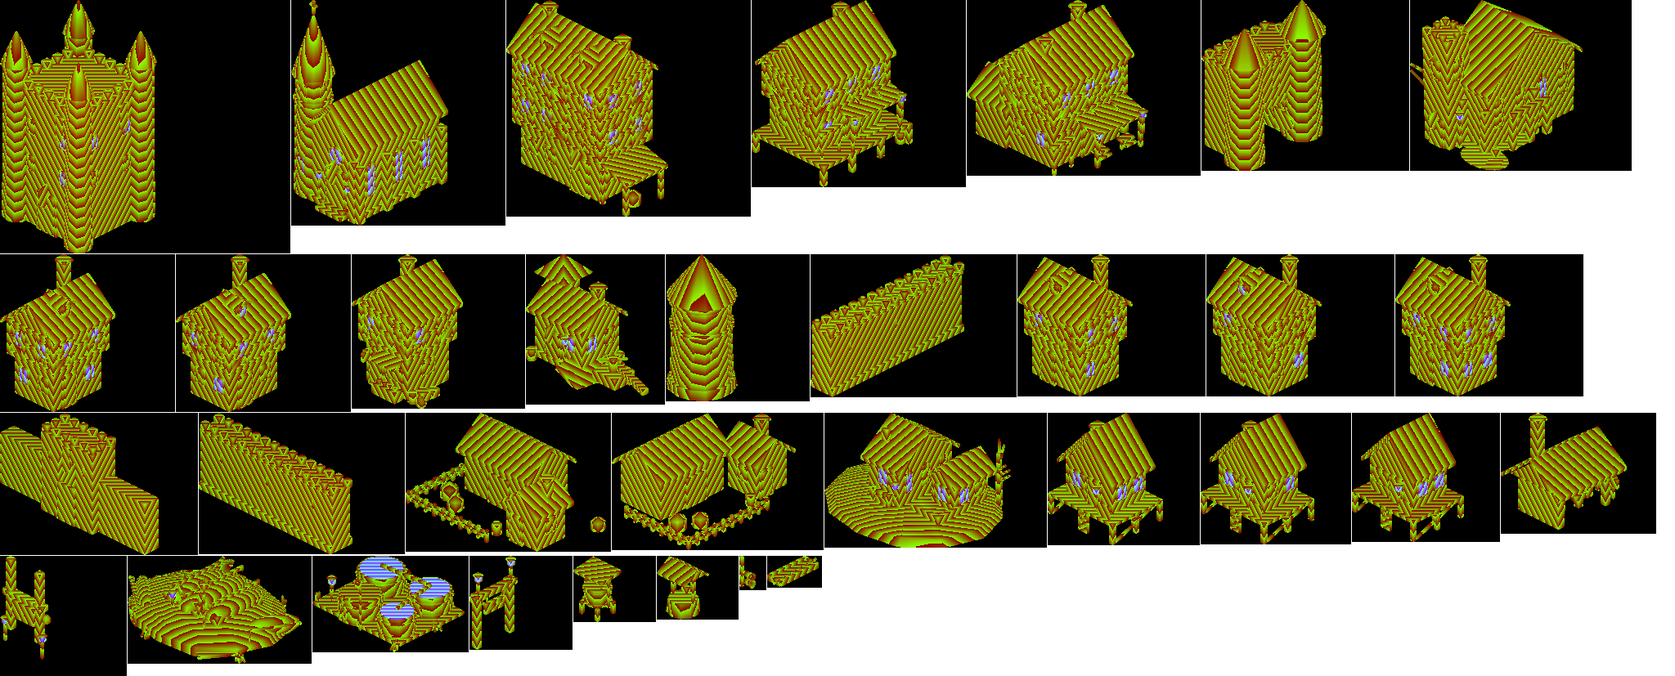
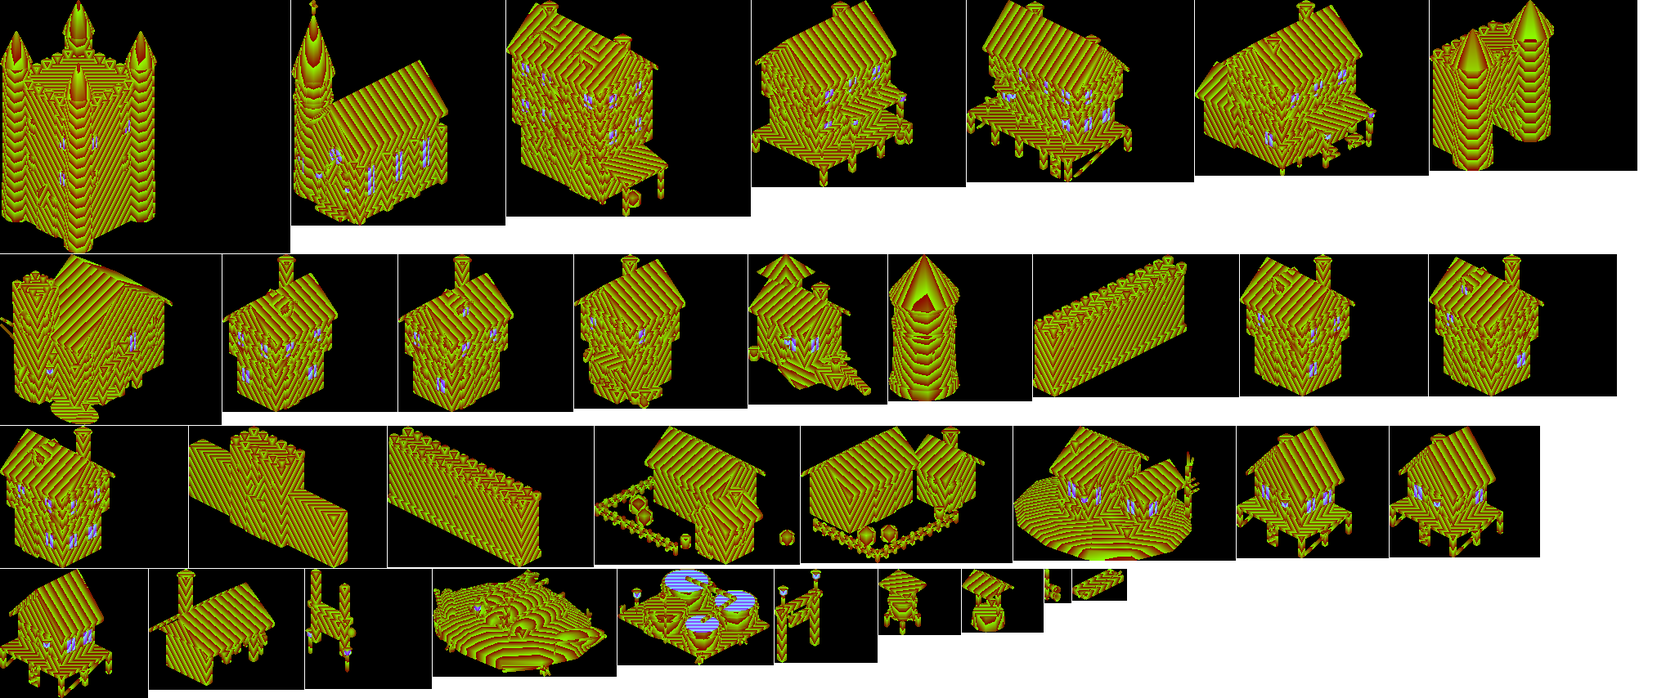
Saltmere's inn, the Stilt House; no two companions share a name (save v24)
The owner: "Saltmere needs an inn for party mgt. Also ensure companions dont have the same name. I have 2 Tobins."

The inn (world doc v1.28 first, GDD v1.37, region-towns-proposal):
- A new stilt lodging-house (actor-lab buildkit `stiltinn`, town.json fens_stiltinn_1, re-baked town-fens; no other
  footprint changed): long on its piles, two storeys, a gallery with a bench, lanterns, a candle sign, a ladder.
- outdoor.js buildWaystation: a third service, 'inn' (The Stilt House) at the head of the square; the chapel moves 6
  tiles west on its island so the three stand 8+ apart with every door in the square's frame. At first the inn
  stood behind the chapel and under the compass buttons; the move brings it clear (docs/img/saltmere-inn.jpg).
- The bar shows Tavern, Inn, Temple; the inn's menu (rest, party & bench, expeditions) works as in any town.

Names (GDD §6.2 v1.37):
- party.js freeName / distinctNames: the tavern offers each sellsword under a name nobody in the company (or earlier on
  the day's list) has: the next free name in their class's list, then any class's, then "the Younger". One already
  hired keeps theirs. heroes.js roster() goes through it, so the hire is what was shown.
- save v24 (persist/save.js namesFor, party.js dedupeNames): an older company with a name twice has the later one
  renamed the same way (the party first, then the bench); the hero keeps theirs. So the second Tobin gets a new name.
[…]

diff --git a/src/sim/envfoot.js b/src/sim/envfoot.js
@@ -1,4 +1,4 @@
 // envfoot.js — GENERATED by tools/actor-lab/bake-env.cjs. Do not edit.
 // Ground footprint of each baked environment sprite, in tiles relative to its
 // origin: [x0, y0, x1, y1]. Used for collision and placement.
-export const ENV_FOOT = {"pine_1":[-4.13,-4.18,4.39,4.34],"pine_2":[-4.81,-4.8,5.12,5],"pine_3":[-4.98,-5.01,5,4.96],"pine_4":[-5.13,-5.38,5.48,5.19],"pine_5":[-4.8,-4.87,4.86,4.58],"pine_6":[-4.76,-4.68,4.81,4.84],"oak_1":[-6.75,-7.14,6.33,6.1],"oak_2":[-5.79,-6.35,5.76,6.08],"oak_3":[-6.48,-6.65,6.29,5.96],"oak_4":[-6.59,-6.8,6.43,6.89],"autumn_1":[-6.59,-6.88,6.22,6.33],"autumn_2":[-5.57,-5.73,5.51,5.75],"autumn_3":[-5.1,-5.47,5.08,5.06],"birch_1":[-4.93,-3.24,2.73,4.21],"birch_2":[-4.81,-4.29,4.6,3.62],"birch_3":[-5.17,-3.57,4.88,4.81],"dead_1":[-2.24,-2.81,2.66,2.62],"dead_2":[-2.56,-1.87,2.98,3.05],"grove_1":[-9.86,-8.38,6.88,6.28],"grove_2":[-10.59,-7.13,5.79,8.69],"grove_3":[-10.94,-8,11.15,9.36],"grove_4":[-10.79,-8.1,8.04,10.5],"grove_5":[-9.42,-11.89,11.01,10.13],"grove_6":[-7.78,-9.39,8.91,8.76],"bridge_0":[-3.6,-9.7,3.6,9.7],"bridge_90":[-9.7,-3.6,9.7,3.6],"rock_A":[-2.18,-2.03,2.19,2.41],"rock_B":[-2.03,-2.12,2.06,1.97],"rock_C":[-3.06,-3.35,3.32,3.55],"rock_D":[-2.7,-3.56,2.22,2.22],"rock_E":[-3.72,-3.84,4.19,6.22],"mountain_A_grass_trees":[-10.67,-10.54,11.17,11.99],"mountain_B_grass_trees":[-12.25,-12.31,11.91,11.79],"mountain_C_grass_trees":[-11.39,-10.97,11.31,12.47],"mountain_A":[-10,-10.64,10.64,10.58],"mountain_B":[-11.58,-11.7,12.29,12.11],"mountain_massif_A":[-37.07,-33.75,43.44,35.17],"mountain_massif_B":[-30.31,-33,30.17,32.15],"mountain_massif_C":[-24.46,-24.21,25.04,24.61],"ruin":[-9.37,-9.66,9.14,6.89],"mine_0":[-13.86,-13.76,9.84,11.1],"lumbermill_90":[-10.3,-7.1,9.4,8.9],"barrel":[-0.89,-0.94,0.89,0.94],"crate_A_big":[-1.12,-1.12,1.12,1.19],"crate_A_small":[-0.72,-0.72,0.72,0.79],"crate_B_big":[-1.12,-1.12,1.12,1.19],"crate_long_A":[-2.02,-1.02,2.02,1.09],"sack":[-0.62,-0.49,1.25,1.36],"wheelbarrow":[-1.32,-2.69,1.32,3.23],"weaponrack":[-1.2,-0.19,2.1,0.81],"bucket_water":[-0.65,-0.65,0.65,0.65],"resource_lumber":[-3.33,-1.78,3.33,2.15],"resource_stone":[-1.7,-1.97,1.75,0.83],"flag_red":[-0.16,-0.12,0.16,1.84],"stump":[-1.06,-1.15,1.12,1.1],"fence_0":[-0.25,-6.05,0.3,6.05],"fence_90":[-6.05,-0.3,6.05,0.25],"drywall_0":[-0.83,-5.8,0.8,5.78],"drywall_90":[-5.8,-0.8,5.78,0.83],"stairsup_0":[-2.6,-4.15,2.6,3.1],"stairsup_90":[-4.15,-2.6,3.1,2.6],"stairsdown_0":[-3.38,-3.8,3.38,3.01],"watermill_0":[-6.12,-4.3,5.3,5.38],"chapelruin_0":[-6.67,-5.7,7.63,8.85],"milestone_0":[-1.68,-1.61,1.66,3.1],"warren_0":[-19.82,-24.03,13.71,8.3],"wagon_0":[-4.9,-1.55,4.09,3.62],"ug_bush":[-2.03,-2.14,2.18,2.18],"ug_fern":[-3.54,-3.27,3.7,3.52],"ug_plant":[-1.95,-2.32,2.09,2.06],"ug_flowers_1":[-0.86,-1.12,1.22,1.11],"ug_flowers_2":[-1.3,-0.89,1.19,1.02],"ug_grass_1":[-1.48,-1.64,1.6,1.55],"ug_grass_2":[-0.81,-0.96,0.98,1.03],"ug_clover":[-1,-0.94,0.7,0.73],"ug_mushroom":[-1.62,-0.82,1.79,1.94],"rock_F":[-2.07,-1.38,1.8,2.21],"rock_G":[-2.06,-1.39,1.6,1.58],"rock_H":[-2.19,-1.07,1.91,3.1],"wheat_1":[-0.69,-0.8,0.76,0.68],"wheat_2":[-0.71,-0.84,0.73,0.93],"wheat_3":[-0.9,-0.69,0.81,0.84],"cow_1":[-2.23,-1.26,3.32,1.47],"cow_2":[-1.59,-3.37,2.14,2.06],"cow_3":[-1.78,-1.91,2.44,2.81],"sheep_1":[-2.67,-1.44,1.86,1.44],"sheep_2":[-1.46,-2.63,1.49,1.85],"hens_1":[-1.36,-1.34,1.27,2.35],"pumpkins_1":[-1.77,-1.16,1.14,1.73],"hay_1":[-2.02,-1,2.02,1.25],"hay_2":[-1.48,-1.41,1.48,1.5],"planter_1":[-1.3,-0.4,1.3,0.4],"alder_1":[-4.75,-5.67,5.55,5.23],"alder_2":[-5.24,-5.4,5.37,5.39],"alder_3":[-5.48,-4.83,5.77,4.74],"willow_1":[-7.04,-6.27,6.42,6.51],"willow_2":[-7.57,-7.83,6.93,7.54],"carr_1":[-7.28,-6.88,6.22,6.2],"carr_2":[-6.81,-6.88,6.65,6.31],"vale_tavern_1":[-8.45,-6.72,7.25,6.3],"vale_inn_1":[-7.1,-4.4,10.48,5.1],"vale_shop_1":[-4.2,-4.2,5.72,5.07],"vale_temple_1":[-6.81,-6.95,4.5,7.84],"vale_well_1":[-2.1,-1.8,2.1,1.8],"vale_house_1":[-4.7,-4,4.7,4],"vale_house_2":[-4.7,-4,4.7,4],"vale_house_3":[-4.7,-4,4.7,4],"vale_housex_1":[-4,-4.7,4,4.7],"vale_housex_2":[-4,-4.7,4,4.7],"vale_farm_1":[-9.63,-5.7,9.77,7.63],"vale_farmx_1":[-5.7,-9.77,7.63,9.63],"vale_keep_1":[-6.37,-6.45,6.37,6.45],"vale_wall_1":[-11,-1.7,11,2.1],"vale_smith_1":[-4.3,-5.36,4.8,5.2],"vale_curtain_1":[-10.09,-2,10.15,2],"vale_curtainy_1":[-2,-10.15,2,10.09],"vale_tower_1":[-4.1,-4.1,4.1,4.1],"vale_gatehousey_1":[-3,-7.5,3,7.5],"fens_tavern_1":[-8.45,-6.72,7.25,6.3],"fens_inn_1":[-7.1,-4.4,10.48,5.1],"fens_shop_1":[-4.2,-4.2,5.72,5.07],"fens_temple_1":[-6.81,-6.95,4.5,7.84],"fens_well_1":[-2.1,-1.8,2.1,1.8],"fens_house_1":[-4.7,-4,4.7,4],"fens_house_2":[-4.7,-4,4.7,4],"fens_house_3":[-4.7,-4,4.7,4],"fens_housex_1":[-4,-4.7,4,4.7],"fens_housex_2":[-4,-4.7,4,4.7],"fens_farm_1":[-9.63,-5.7,9.77,7.63],"fens_farmx_1":[-5.7,-9.77,7.63,9.63],"fens_keep_1":[-6.37,-6.45,6.37,6.45],"fens_wall_1":[-11,-1.7,11,2.1],"fens_smith_1":[-4.3,-5.36,4.8,5.2],"fens_curtain_1":[-10,-1.6,10.3,1.6],"fens_curtainy_1":[-1.6,-10.3,1.6,10],"fens_tower_1":[-3.7,-3.8,3.7,3.8],"fens_gatehousey_1":[-3,-7,5.7,7],"fens_stilt_1":[-4.81,-3.8,5.15,3.99],"fens_stilt_2":[-4.66,-3.8,5,3.99],"fens_stilt_3":[-4.9,-3.8,5.24,3.99],"fens_stilttavern_1":[-5.45,-6.75,5.75,6.75],"fens_cistern_1":[-2.1,-1.56,2.1,1.56],"fens_punt_1":[-1,-3.29,1,3.69],"fens_eeltrap_1":[-0.45,-0.41,1.65,0.45],"fens_boathall_1":[-10.75,-9.86,9.83,7.48],"fens_lockhall_1":[-8.1,-6,12.96,5.11],"fens_vats_1":[-6.86,-6.13,7.31,5.8],"fens_abbey_1":[-8.09,-8.86,7.95,8.39],"fens_priory_1":[-10.4,-8.86,10.43,8.9],"fens_landing_1":[-0.45,-3.2,0.55,3.2],"fens_ferrystage_1":[-3.15,-0.5,3.64,0.55],"reach_tavern_1":[-8.45,-6.72,7.25,6.3],"reach_inn_1":[-7.1,-4.4,10.48,5.1],"reach_shop_1":[-4.2,-4.2,5.72,5.07],"reach_temple_1":[-6.81,-6.95,4.5,7.84],"reach_well_1":[-2.1,-1.8,2.1,1.8],"reach_house_1":[-4.7,-4,4.7,4],"reach_house_2":[-4.7,-4,4.7,4],"reach_house_3":[-4.7,-4,4.7,4],"reach_housex_1":[-4,-4.7,4,4.7],"reach_housex_2":[-4,-4.7,4,4.7],"reach_farm_1":[-9.63,-5.7,9.77,7.63],"reach_farmx_1":[-5.7,-9.77,7.63,9.63],"reach_keep_1":[-6.37,-6.45,6.37,6.45],"reach_wall_1":[-11,-1.7,11,2.1],"reach_smith_1":[-4.3,-5.36,4.8,5.2],"reach_curtain_1":[-10,-1.6,10.3,1.6],"reach_curtainy_1":[-1.6,-10.3,1.6,10],"reach_tower_1":[-3.7,-3.8,3.7,3.8],"reach_gatehousey_1":[-3,-7,5.7,7],"heights_tavern_1":[-8.45,-6.72,7.25,6.3],"heights_inn_1":[-7.1,-4.4,10.48,5.1],"heights_shop_1":[-4.2,-4.2,5.72,5.07],"heights_temple_1":[-6.81,-6.95,4.5,7.84],"heights_well_1":[-2.1,-1.8,2.1,1.8],"heights_house_1":[-4.7,-4,4.7,4],"heights_house_2":[-4.7,-4,4.7,4],"heights_house_3":[-4.7,-4,4.7,4],"heights_housex_1":[-4,-4.7,4,4.7],"heights_housex_2":[-4,-4.7,4,4.7],"heights_farm_1":[-9.63,-5.7,9.77,7.63],"heights_farmx_1":[-5.7,-9.77,7.63,9.63],"heights_keep_1":[-6.37,-6.45,6.37,6.45],"heights_wall_1":[-11,-1.7,11,2.1],"heights_smith_1":[-4.3,-5.36,4.8,5.2],"heights_curtain_1":[-10,-1.6,10.3,1.6],"heights_curtainy_1":[-1.6,-10.3,1.6,10],"heights_tower_1":[-3.7,-3.8,3.7,3.8],"heights_gatehousey_1":[-3,-7,5.7,7]};
+export const ENV_FOOT = {"pine_1":[-4.13,-4.18,4.39,4.34],"pine_2":[-4.81,-4.8,5.12,5],"pine_3":[-4.98,-5.01,5,4.96],"pine_4":[-5.13,-5.38,5.48,5.19],"pine_5":[-4.8,-4.87,4.86,4.58],"pine_6":[-4.76,-4.68,4.81,4.84],"oak_1":[-6.75,-7.14,6.33,6.1],"oak_2":[-5.79,-6.35,5.76,6.08],"oak_3":[-6.48,-6.65,6.29,5.96],"oak_4":[-6.59,-6.8,6.43,6.89],"autumn_1":[-6.59,-6.88,6.22,6.33],"autumn_2":[-5.57,-5.73,5.51,5.75],"autumn_3":[-5.1,-5.47,5.08,5.06],"birch_1":[-4.93,-3.24,2.73,4.21],"birch_2":[-4.81,-4.29,4.6,3.62],"birch_3":[-5.17,-3.57,4.88,4.81],"dead_1":[-2.24,-2.81,2.66,2.62],"dead_2":[-2.56,-1.87,2.98,3.05],"grove_1":[-9.86,-8.38,6.88,6.28],"grove_2":[-10.59,-7.13,5.79,8.69],"grove_3":[-10.94,-8,11.15,9.36],"grove_4":[-10.79,-8.1,8.04,10.5],"grove_5":[-9.42,-11.89,11.01,10.13],"grove_6":[-7.78,-9.39,8.91,8.76],"bridge_0":[-3.6,-9.7,3.6,9.7],"bridge_90":[-9.7,-3.6,9.7,3.6],"rock_A":[-2.18,-2.03,2.19,2.41],"rock_B":[-2.03,-2.12,2.06,1.97],"rock_C":[-3.06,-3.35,3.32,3.55],"rock_D":[-2.7,-3.56,2.22,2.22],"rock_E":[-3.72,-3.84,4.19,6.22],"mountain_A_grass_trees":[-10.67,-10.54,11.17,11.99],"mountain_B_grass_trees":[-12.25,-12.31,11.91,11.79],"mountain_C_grass_trees":[-11.39,-10.97,11.31,12.47],"mountain_A":[-10,-10.64,10.64,10.58],"mountain_B":[-11.58,-11.7,12.29,12.11],"mountain_massif_A":[-37.07,-33.75,43.44,35.17],"mountain_massif_B":[-30.31,-33,30.17,32.15],"mountain_massif_C":[-24.46,-24.21,25.04,24.61],"ruin":[-9.37,-9.66,9.14,6.89],"mine_0":[-13.86,-13.76,9.84,11.1],"lumbermill_90":[-10.3,-7.1,9.4,8.9],"barrel":[-0.89,-0.94,0.89,0.94],"crate_A_big":[-1.12,-1.12,1.12,1.19],"crate_A_small":[-0.72,-0.72,0.72,0.79],"crate_B_big":[-1.12,-1.12,1.12,1.19],"crate_long_A":[-2.02,-1.02,2.02,1.09],"sack":[-0.62,-0.49,1.25,1.36],"wheelbarrow":[-1.32,-2.69,1.32,3.23],"weaponrack":[-1.2,-0.19,2.1,0.81],"bucket_water":[-0.65,-0.65,0.65,0.65],"resource_lumber":[-3.33,-1.78,3.33,2.15],"resource_stone":[-1.7,-1.97,1.75,0.83],"flag_red":[-0.16,-0.12,0.16,1.84],"stump":[-1.06,-1.15,1.12,1.1],"fence_0":[-0.25,-6.05,0.3,6.05],"fence_90":[-6.05,-0.3,6.05,0.25],"drywall_0":[-0.83,-5.8,0.8,5.78],"drywall_90":[-5.8,-0.8,5.78,0.83],"stairsup_0":[-2.6,-4.15,2.6,3.1],"stairsup_90":[-4.15,-2.6,3.1,2.6],"stairsdown_0":[-3.38,-3.8,3.38,3.01],"watermill_0":[-6.12,-4.3,5.3,5.38],"chapelruin_0":[-6.67,-5.7,7.63,8.85],"milestone_0":[-1.68,-1.61,1.66,3.1],"warren_0":[-19.82,-24.03,13.71,8.3],"wagon_0":[-4.9,-1.55,4.09,3.62],"ug_bush":[-2.03,-2.14,2.18,2.18],"ug_fern":[-3.54,-3.27,3.7,3.52],"ug_plant":[-1.95,-2.32,2.09,2.06],"ug_flowers_1":[-0.86,-1.12,1.22,1.11],"ug_flowers_2":[-1.3,-0.89,1.19,1.02],"ug_grass_1":[-1.48,-1.64,1.6,1.55],"ug_grass_2":[-0.81,-0.96,0.98,1.03],"ug_clover":[-1,-0.94,0.7,0.73],"ug_mushroom":[-1.62,-0.82,1.79,1.94],"rock_F":[-2.07,-1.38,1.8,2.21],"rock_G":[-2.06,-1.39,1.6,1.58],"rock_H":[-2.19,-1.07,1.91,3.1],"wheat_1":[-0.69,-0.8,0.76,0.68],"wheat_2":[-0.71,-0.84,0.73,0.93],"wheat_3":[-0.9,-0.69,0.81,0.84],"cow_1":[-2.23,-1.26,3.32,1.47],"cow_2":[-1.59,-3.37,2.14,2.06],"cow_3":[-1.78,-1.91,2.44,2.81],"sheep_1":[-2.67,-1.44,1.86,1.44],"sheep_2":[-1.46,-2.63,1.49,1.85],"hens_1":[-1.36,-1.34,1.27,2.35],"pumpkins_1":[-1.77,-1.16,1.14,1.73],"hay_1":[-2.02,-1,2.02,1.25],"hay_2":[-1.48,-1.41,1.48,1.5],"planter_1":[-1.3,-0.4,1.3,0.4],"alder_1":[-4.75,-5.67,5.55,5.23],"alder_2":[-5.24,-5.4,5.37,5.39],"alder_3":[-5.48,-4.83,5.77,4.74],"willow_1":[-7.04,-6.27,6.42,6.51],"willow_2":[-7.57,-7.83,6.93,7.54],"carr_1":[-7.28,-6.88,6.22,6.2],"carr_2":[-6.81,-6.88,6.65,6.31],"vale_tavern_1":[-8.45,-6.72,7.25,6.3],"vale_inn_1":[-7.1,-4.4,10.48,5.1],"vale_shop_1":[-4.2,-4.2,5.72,5.07],"vale_temple_1":[-6.81,-6.95,4.5,7.84],"vale_well_1":[-2.1,-1.8,2.1,1.8],"vale_house_1":[-4.7,-4,4.7,4],"vale_house_2":[-4.7,-4,4.7,4],"vale_house_3":[-4.7,-4,4.7,4],"vale_housex_1":[-4,-4.7,4,4.7],"vale_housex_2":[-4,-4.7,4,4.7],"vale_farm_1":[-9.63,-5.7,9.77,7.63],"vale_farmx_1":[-5.7,-9.77,7.63,9.63],"vale_keep_1":[-6.37,-6.45,6.37,6.45],"vale_wall_1":[-11,-1.7,11,2.1],"vale_smith_1":[-4.3,-5.36,4.8,5.2],"vale_curtain_1":[-10.09,-2,10.15,2],"vale_curtainy_1":[-2,-10.15,2,10.09],"vale_tower_1":[-4.1,-4.1,4.1,4.1],"vale_gatehousey_1":[-3,-7.5,3,7.5],"fens_tavern_1":[-8.45,-6.72,7.25,6.3],"fens_inn_1":[-7.1,-4.4,10.48,5.1],"fens_shop_1":[-4.2,-4.2,5.72,5.07],"fens_temple_1":[-6.81,-6.95,4.5,7.84],"fens_well_1":[-2.1,-1.8,2.1,1.8],"fens_house_1":[-4.7,-4,4.7,4],"fens_house_2":[-4.7,-4,4.7,4],"fens_house_3":[-4.7,-4,4.7,4],"fens_housex_1":[-4,-4.7,4,4.7],"fens_housex_2":[-4,-4.7,4,4.7],"fens_farm_1":[-9.63,-5.7,9.77,7.63],"fens_farmx_1":[-5.7,-9.77,7.63,9.63],"fens_keep_1":[-6.37,-6.45,6.37,6.45],"fens_wall_1":[-11,-1.7,11,2.1],"fens_smith_1":[-4.3,-5.36,4.8,5.2],"fens_curtain_1":[-10,-1.6,10.3,1.6],"fens_curtainy_1":[-1.6,-10.3,1.6,10],"fens_tower_1":[-3.7,-3.8,3.7,3.8],"fens_gatehousey_1":[-3,-7,5.7,7],"fens_stilt_1":[-4.81,-3.8,5.15,3.99],"fens_stilt_2":[-4.66,-3.8,5,3.99],"fens_stilt_3":[-4.9,-3.8,5.24,3.99],"fens_stilttavern_1":[-5.45,-6.75,5.75,6.75],"fens_cistern_1":[-2.1,-1.56,2.1,1.56],"fens_punt_1":[-1,-3.29,1,3.69],"fens_eeltrap_1":[-0.45,-0.41,1.65,0.45],"fens_boathall_1":[-10.75,-9.86,9.83,7.48],"fens_lockhall_1":[-8.1,-6,12.96,5.11],"fens_vats_1":[-6.86,-6.13,7.31,5.8],"fens_abbey_1":[-8.09,-8.86,7.95,8.39],"fens_priory_1":[-10.4,-8.86,10.43,8.9],"fens_landing_1":[-0.45,-3.2,0.55,3.2],"fens_ferrystage_1":[-3.15,-0.5,3.64,0.55],"fens_stiltinn_1":[-7.65,-4.9,7.65,4.99],"reach_tavern_1":[-8.45,-6.72,7.25,6.3],"reach_inn_1":[-7.1,-4.4,10.48,5.1],"reach_shop_1":[-4.2,-4.2,5.72,5.07],"reach_temple_1":[-6.81,-6.95,4.5,7.84],"reach_well_1":[-2.1,-1.8,2.1,1.8],"reach_house_1":[-4.7,-4,4.7,4],"reach_house_2":[-4.7,-4,4.7,4],"reach_house_3":[-4.7,-4,4.7,4],"reach_housex_1":[-4,-4.7,4,4.7],"reach_housex_2":[-4,-4.7,4,4.7],"reach_farm_1":[-9.63,-5.7,9.77,7.63],"reach_farmx_1":[-5.7,-9.77,7.63,9.63],"reach_keep_1":[-6.37,-6.45,6.37,6.45],"reach_wall_1":[-11,-1.7,11,2.1],"reach_smith_1":[-4.3,-5.36,4.8,5.2],"reach_curtain_1":[-10,-1.6,10.3,1.6],"reach_curtainy_1":[-1.6,-10.3,1.6,10],"reach_tower_1":[-3.7,-3.8,3.7,3.8],"reach_gatehousey_1":[-3,-7,5.7,7],"heights_tavern_1":[-8.45,-6.72,7.25,6.3],"heights_inn_1":[-7.1,-4.4,10.48,5.1],"heights_shop_1":[-4.2,-4.2,5.72,5.07],"heights_temple_1":[-6.81,-6.95,4.5,7.84],"heights_well_1":[-2.1,-1.8,2.1,1.8],"heights_house_1":[-4.7,-4,4.7,4],"heights_house_2":[-4.7,-4,4.7,4],"heights_house_3":[-4.7,-4,4.7,4],"heights_housex_1":[-4,-4.7,4,4.7],"heights_housex_2":[-4,-4.7,4,4.7],"heights_farm_1":[-9.63,-5.7,9.77,7.63],"heights_farmx_1":[-5.7,-9.77,7.63,9.63],"heights_keep_1":[-6.37,-6.45,6.37,6.45],"heights_wall_1":[-11,-1.7,11,2.1],"heights_smith_1":[-4.3,-5.36,4.8,5.2],"heights_curtain_1":[-10,-1.6,10.3,1.6],"heights_curtainy_1":[-1.6,-10.3,1.6,10],"heights_tower_1":[-3.7,-3.8,3.7,3.8],"heights_gatehousey_1":[-3,-7,5.7,7]};

diff --git a/tools/actor-lab/buildkit.js b/tools/actor-lab/buildkit.js
@@ -1046,6 +1046,32 @@ Object.assign(TYPES, {
     for (const [x, y] of [[-0.08, 0.24], [0.03, 0.19], [0.09, 0.24], [-0.02, 0.15]]) box(0.05, 0.06, 0.03, S.m.paper, x, y, 0.004, nb);
     barrel(g, S, pw / 2 - 0.08, pd / 2 - 0.05);
   },
+  // The Stilt House (2026-10-05, the owner: "Saltmere needs an inn for party mgt"): the waystation's lodging, where a
+  // company's sellswords wait. Long and narrow on its piles, two storeys under one steep roof, a row of shuttered
+  // sleeping-room windows upstairs, a ladder down to a moored punt, a lantern and a hanging sign with a candle on it,
+  // and a gallery along its front where the bench sits. Faces the camera (+z), as the tavern does.
+  stiltinn(S, g, r) {
+    const P = 0.2, w = 1.22, d = 0.56, h1 = 0.4, h2 = 0.34, pw = w + 0.26, pd = d + 0.36;
+    for (let i = 0; i < 5; i++) for (const z of [-pd / 2, pd / 2]) box(0.05, P + 0.02, 0.05, S.m.beam, -pw / 2 + (pw * i) / 4, -0.02, z, g);
+    for (const x of [-pw / 2, pw / 2]) { const br = box(0.02, 0.02, pd * 1.05, S.m.beam, x, P * 0.45, 0, g); br.rotation.x = 0.35; }   // cross-braces
+    box(pw + 0.04, 0.035, pd + 0.04, S.m.wood, 0, P, 0, g);                                             // the platform
+    const hs = new THREE.Group(); hs.position.set(0, P + 0.035, -0.1); g.add(hs);
+    storeyBlock(S, hs, w, d, 0, h1, S.m.lower, true, { doorZ: -0.2 });
+    doorOn(hs, S, { side: 'z', wallW: w, wallD: d }, -0.2, 0.2, 0.34, false);
+    storeyBlock(S, hs, w + S.jetty * 2, d + S.jetty * 2, h1, h2, S.m.upper, true, { timber: true });
+    roofOver(S, hs, w + S.jetty * 2, d + S.jetty * 2, h1 + h2, S.roofRise * 1.25);
+    chimney(hs, S, -0.42, -0.1, h1 + h2, 0.4); chimney(hs, S, 0.44, -0.1, h1 + h2, 0.34);
+    sign(hs, S, -0.46, 0.46, d / 2);
+    const candle = mat(null, '#e8d8a8'); box(0.02, 0.06, 0.012, candle, -0.46, 0.43, d / 2 + 0.06, hs);   // the candle painted on the sign
+    const ga = new THREE.Group(); ga.position.set(0, P + 0.035, d / 2 - 0.02); g.add(ga);                // the gallery: a rail, posts, a bench
+    for (const x of [-0.56, -0.1, 0.36, 0.6]) box(0.03, 0.2, 0.03, S.m.beam, x, 0, 0.12, ga);
+    box(1.2, 0.025, 0.025, S.m.beam, 0.02, 0.18, 0.12, ga);
+    box(0.4, 0.03, 0.08, S.m.wood, 0.2, 0.09, 0.02, ga);
+    lantern(ga, S, -0.2, 0.36, 0.1); lantern(ga, S, 0.6, 0.36, 0.1);
+    for (let i = 0; i < 5; i++) box(0.11, 0.012, 0.018, S.m.wood, pw / 2 - 0.16, P - 0.04 - i * 0.045, pd / 2 + 0.03, g);   // the ladder down to the water
+    for (const sx of [pw / 2 - 0.22, pw / 2 - 0.1]) box(0.012, P + 0.03, 0.012, S.m.beam, sx, -0.02, pd / 2 + 0.03, g);
+    const blanket = mat(null, '#6a4a3a'); box(0.22, 0.012, 0.1, blanket, -0.3, P + h1 + 0.06, d / 2 + 0.12, g);   // bedding aired over the gallery rail
+  },
   // The waystation's well: a rain cistern, a staved tub on a stand under a little roof, a dipper on a hook.
   cistern(S, g, r) {
     for (const [x, z] of [[-0.12, -0.12], [0.12, -0.12], [-0.12, 0.12], [0.12, 0.12]]) box(0.03, 0.14, 0.03, S.m.beam, x, 0, z, g);

diff --git a/src/persist/save.js b/src/persist/save.js
@@ -67,14 +67,18 @@
 //       road. Only grew: older data has nobody out.
 //   v23: the Mere Tower's wardens' heirlooms (sim/tower.js, items.js; GDD §17 v1.34): tower.won { [warden]: [brackets] }.
 //       Only grew: older data has won none.
+//   v24: no two in a company share a name (sim/party.js; the owner, 2026-10-05: "I have 2 Tobins"). The shape is the
+//       same; an older company with a name twice has the later one (the party first, then the bench) renamed to the
+//       next free name in their class's list (namesFor). The hero keeps theirs.
 
 import * as idb from './idb.js';
 import { TICK_HZ } from '../sim/core.js';
 import { LAMPS } from '../sim/lamps.js';
 import { makeItem } from '../sim/items.js';
 import { bagStacks, BAG_SIZE } from '../sim/loot.js';
+import { dedupeNames } from '../sim/party.js';
 
-export const SAVE_VERSION = 23;
+export const SAVE_VERSION = 24;
 export const SLOTS = 3;
 const AUTOSAVE_MS = 15000;
 const LEGACY_KEY = 'emberhold.save', ACTIVE_KEY = 'emberfall.activeSlot', BACKUP = 'emberfall.backup.slot';
@@ -95,7 +99,7 @@ export function metaOf(data) {
 export function migrate(raw) {
   if (!raw || typeof raw !== 'object' || !raw.data) return null;
   if (raw.version === SAVE_VERSION) return raw;
-  if (raw.version >= 3 && raw.version < SAVE_VERSION) { let data = raw.version < 19 ? countFrom(raw.data) : raw.data; if (raw.version < 20) data = scrollFor(data); return { version: SAVE_VERSION, savedAt: raw.savedAt || 0, meta: metaOf(data), data }; }
+  if (raw.version >= 3 && raw.version < SAVE_VERSION) { let data = raw.version < 19 ? countFrom(raw.data) : raw.data; if (raw.version < 20) data = scrollFor(data); if (raw.version < 24) data = namesFor(data); return { version: SAVE_VERSION, savedAt: raw.savedAt || 0, meta: metaOf(data), data }; }
   return null;                       // unknown / newer / un-migratable
 }
 
@@ -104,6 +108,15 @@ export function countFrom(data) {
   if (data.count) return data;
   const L = LAMPS.third_legion, fell = !!(data.bosses && data.bosses[L.keeper] > 0);
   return { ...data, count: { lamps: fell ? 1 : 0, souls: fell ? L.souls : 0 }, lampsBroken: fell ? ['third_legion'] : [] };
+}
+
+/** v23 → v24: no two in a company share a name (the owner, 2026-10-05: "I have 2 Tobins"); the later one, in the
+ * party then on the bench, takes the next free name (party.js freeName) @param {any} data */
+export function namesFor(data) {
+  if (!Array.isArray(data.party)) return data;
+  const party = data.party.map((m) => ({ ...m })), bench = (Array.isArray(data.bench) ? data.bench : []).map((m) => ({ ...m }));
+  dedupeNames([...party, ...bench]);
+  return { ...data, party, bench };
 }
 
 /** v19 → v20: one Homeward Scroll in the bag (see v20 above) @param {any} data */

diff --git a/src/sim/outdoor.js b/src/sim/outdoor.js
@@ -502,9 +502,10 @@ function buildFens(seed) {
 
 // ── SALTMERE, the Fens' waystation (M8; docs/region-towns-proposal.md) ─────────────────────────────────────────
 // No wall: the water is all round it. Stilt houses over the bog, boardwalks for streets, the square a deck on piles
-// in the same place and shape as every town's, and two services standing where a town's tavern and temple stand:
-// the Drowned Eel (with the Guild's board) and the Grey Sisters' chapel, on its own peat island. The well is a
-// rainwater cistern: nobody drinks the fen.
+// in the same place and shape as every town's, and three services: the Drowned Eel (with the Guild's board) and the
+// Grey Sisters' chapel, on its own peat island, where a town's tavern and temple stand, and (2026-10-05, the owner:
+// "Saltmere needs an inn for party mgt") the Stilt House over the square's head, where a company's sellswords wait.
+// The well is a rainwater cistern: nobody drinks the fen.
 function buildWaystation(seed, region) {
   const R = region, info = REGIONS[R], o = makeWorld(seed, 'town', 130, 116, 90), rng = mulberry32(streamSeed(seed, 4433)), B = (t, n = 1) => `${R}_${t}_${n}`;
   o.name = info.name; o.region = R; o.marsh = true; o.waystation = true;
@@ -517,8 +518,8 @@ function buildWaystation(seed, region) {
   for (const pts of [[[50, 62], [32, 72], [24, 72]], [[60, 44], [76, 24], [86, 22]], [[78, 66], [100, 68]], [[48, 80], [40, 98]], [[84, 82], [94, 94]], [[64, 86], [62, 100]]])
     o.roads.push({ w: 3, surface: 'deck', pts });                                                                            // boardwalks to the houses
   finalizeGround(o);
-  const svc = [['temple', B('temple'), [34, 24]], ['tavern', B('stilttavern'), [29, 48]]];
-  for (const [kind, id, [x, y]] of svc) { put(o, id, x, y); o.services.push({ kind, id, x, y, name: info[kind === 'tavern' ? 'tavern' : 'temple'] }); o.labels.push({ x, y, id, text: info[kind], service: kind }); }
+  const svc = [['temple', B('temple'), [28, 24]], ['tavern', B('stilttavern'), [29, 48]], ['inn', B('stiltinn'), [49, 29]]];
+  for (const [kind, id, [x, y]] of svc) { put(o, id, x, y); o.services.push({ kind, id, x, y, name: info[kind] }); o.labels.push({ x, y, id, text: info[kind], service: kind }); }
   put(o, B('cistern'), M[0], M[1]);
   for (const [x, y] of [[41, 57], [60, 50], [80, 64], [61, 80]]) putProp(o, 'brazier', x, y);
   o.hub = { x: 58, y: 58, r: 32, focus: { x: 60, y: 60 } };

diff --git a/src/sim/party.js b/src/sim/party.js
@@ -111,6 +111,34 @@ const NAMES = {
   cleric: ['Maren', 'Aldous', 'Wenna', 'Cuthbert', 'Edda', 'Rowan'],
   shaman: ['Gammer Rook', 'Tobin', 'Hesk', 'Old Mab', 'Wilber', 'Sedge'],
 };
+// No two in a company share a name (the owner, 2026-10-05: "I have 2 Tobins"): a name already taken goes to the next
+// free one in its class's list after it, then any class's, then "the Younger". Deterministic: the same company and
+// the same roster give the same names.
+const ALL_NAMES = Object.values(NAMES).flat();
+/** a name for a `cls` hireling not in `taken`: `want` if it's free @param {string} cls @param {string} want @param {Set<string>} taken */
+export function freeName(cls, want, taken) {
+  if (!taken.has(want)) return want;
+  const own = NAMES[cls] || [], at = own.indexOf(want);
+  for (let k = 1; k <= own.length; k++) { const n = own[(Math.max(0, at) + k) % own.length]; if (!taken.has(n)) return n; }
+  for (const n of ALL_NAMES) if (!taken.has(n)) return n;
+  for (let k = 2; ; k++) { const n = k === 2 ? `${want} the Younger` : `${want} ${k}`; if (!taken.has(n)) return n; }
+}
+/** a tavern's roster with names nobody in the company has (nor anyone earlier on the list); one already hired keeps the
+ * name they joined with @param {any[]} list @param {any[]} company the party and the bench */
+export function distinctNames(list, company) {
+  const byId = new Map(company.map((m) => [m.id, m])), taken = new Set(company.map((m) => m.name));
+  for (const c of list) {
+    const was = byId.get(c.id);
+    if (was) c.name = was.name; else { c.name = freeName(c.cls, c.name, taken); taken.add(c.name); }
+  }
+  return list;
+}
+/** a company's members, a later one with a name already taken renamed (save v24) @param {any[]} members in order: the party, then the bench */
+export function dedupeNames(members) {
+  const seen = new Set(), taken = new Set(members.map((m) => m.name));        // (a new name mustn't be one a later member has)
+  for (const m of members) { if (seen.has(m.name) && !m.main) { m.name = freeName(m.cls, m.name, taken); taken.add(m.name); } seen.add(m.name); }
+  return members;
+}
 // Today's sellswords at a town's tavern (GDD §6.2): one candidate per class, deterministic per
 // (world seed, town, day, times you asked around), within ±1 of your level. A Thornwick-born hero
 // sees one more. The order: fighter, rogue, mage, then that extra hireling, then the cleric, then (v1.19) the

diff --git a/src/sim/heroes.js b/src/sim/heroes.js
@@ -32,7 +32,7 @@
 // Every command is validated (ownership, place, class, cost, points); an invalid one does
 // nothing but emit 'refused' { reason } for the UI. Nothing here grants XP, items or gold.
 
-import { CLASSES, LOOKS, ORIGINS, ORIGIN_EDGE, MAX_COMPANIONS, makeHero, makeMember, cleanName, statsFor, tavernRoster, hireLevel } from './party.js';
+import { CLASSES, LOOKS, ORIGINS, ORIGIN_EDGE, MAX_COMPANIONS, makeHero, makeMember, cleanName, statsFor, tavernRoster, hireLevel, distinctNames } from './party.js';
 import { ATTRS, pendingPoints, autoAllocate } from './attributes.js';
 import { skillsOf, skillDef, unlocked, rankOf, pendingSkillPoints, MAX_RANK, STANCES } from './skills.js';
 import { bagStacks, BAG_SIZE } from './loot.js';
@@ -77,7 +77,7 @@ export function createHeroes({ state, bus, getWorld, seed }) {
   const restCost = () => Math.round(REST_COST * state.party[0].level * priceMod(state.party));
   const extraHirelings = () => (ORIGIN_EDGE[state.party[0].origin]?.kind === 'tavernHirelings' ? ORIGIN_EDGE[state.party[0].origin].value : 0);
   const asked = () => (state.tavern.day === day() ? state.tavern.ask : 0);
-  const roster = () => tavernRoster(seed, getWorld().region, day(), state.party[0].level, extraHirelings(), asked());
+  const roster = () => distinctNames(tavernRoster(seed, getWorld().region, day(), state.party[0].level, extraHirelings(), asked()), [...state.party, ...state.bench]);   // (no two of a company share a name)
   /** asking around again today @returns {number} */
   const askCost = () => { let c = ASK_COST * state.party[0].level; for (let i = 0; i < asked(); i++) c *= 2; return c; };
   /** @param {any} m */

diff --git a/docs/emberfall-gdd.md b/docs/emberfall-gdd.md
@@ -1,6 +1,6 @@
 # Emberfall — Game Design Document
 
-**v1.36 · 2026-10-05 · Plan of record for game design.** v1.36 (§17): the ground hazard, and the Fens' bosses: the Toadking's mud, Brother Teague's cage, the Drowned Choir's Vespers, the Abbess Below's bells. v1.35 (§17, §10.1): only an elite harvester drops a cage, and the party breaks a cage near it on its own after 3 s with no foe standing; the top bar is two lines, the shrines' boons and Weakened on a third while lit. v1.34 (§17): the Mere Tower's wardens leave their heirlooms, once a bracket, for a class in the party. v1.33 (§6.3): expeditions: send a benched companion on the Guild's road work for 15 min, an hour or four; back with XP, gold and maybe a find. v1.32 (§12): offline progress is in: the time away (up to 4 h) is played through on the same sim behind a progress screen, then summed up. v1.31 (§17): the Mere Tower is in, ahead of Solmere: Wenna's punt from Saltmere from level 12, waves compounding 6 % from a level-9 room, a warden every tenth, no XP, a satchel banked at each landing. v1.30 (§3.6, §8): shrines of three kinds (green mends, red +25 % ATK and blue +25 % DEF for 2 minutes); every company carries one Homeward Scroll. v1.29 (§3.7): no impassable pools in rooms; one or two pillars, monoliths or gibbets out on the floor instead. v1.28 (§17): lamps, cages and the count are in. v1.27 (§9): each town's board posts its own land's jobs; Saltmere's the Fens'. v1.26 (§10): no stream or bridge before Thornwick's gate, on the Vale or in the town. v1.25 (§3): the Fens' own fill the Fens' sites, each mirroring an Ashbound role. v1.24 (§10): a waystation's bar shows its two services, and the sim refuses the ones it lacks by name. v1.23 (§17) brings in **the Old Provinces**, decided by the owner: six regions to a cap of 75, one town each, numbers that compound before any band past 30, skill tiers and a loadout, lamps and the count, the Bowl, the Mere Tower and the Great Beacon (canon in world doc v1.20). v1.22 (§10.1): the weather's icon beside the sky dial, the icon alone, with the word in the dial's tap; clear spells are sunny or partly sunny. v1.21 (§10.1): the wind shows as long, thin gust lines that come and go; the birds, the owl and the dungeon drips are single calls at least 10 s apart; and every kind of sound, the music too, has its own volume slider. v1.20 adds **weather** (§10.1): rain, fog, snow and wind in spells of 20 minutes or more, on the Vale and in the towns, set by the seed and the clock. It's quiet on the screen (mostly the light) and has its own sound. v1.19 opens the **Scrag Warren** (§3, levels 2–5, two floors) under the north range: the hill goblins (skirmisher, bruiser, archer, hexer), and Old Skarn, whose drum brings two more goblins out of the tunnels every 10 s while he stands. Hedda's side quest *Hens Under the Hill* sends you to him. v1.19 also adds a fifth class, the **Shaman** (§5; the hedge-callers, world doc §4): a ranged support with a stacking Spirit Drain that mends the party as it ticks, a party heal over time with an ATK lift (Ancestors' Breath, Col's trial *Old Roads*), and Hex on a knot of foes. It's playable at creation and sits last at every tavern's table. v1.18 sets down the owner's **key pillars** (§1): level-gated skills learned from quests, optional companions worth 5–25 % each, waves that pay for their danger, online and offline grinding on the same rules (with premium windows), the main story apart from side quests, play styles from party make-up, and single-player now with shared spaces later. §12's offline rules follow them. v1.17 adds the one thing the shop sells besides gear: the **Homeward Scroll** (§8), 300 gold or rare loot, read once to stand on the nearest town's square; still no draughts. v1.16 cuts dropped gold (a kill's, a chest's) to 70 % (§8), quest and board rewards unchanged; and those who shoot hold a stand-off (§5, *Bows and crossbows*). v1.15 lays out the towns (§10;
+**v1.37 · 2026-10-05 · Plan of record for game design.** v1.37 (§10, §6.2): Saltmere has an inn, the Stilt House (rest, the bench, expeditions); no two in a company share a name. v1.36 (§17): the ground hazard, and the Fens' bosses: the Toadking's mud, Brother Teague's cage, the Drowned Choir's Vespers, the Abbess Below's bells. v1.35 (§17, §10.1): only an elite harvester drops a cage, and the party breaks a cage near it on its own after 3 s with no foe standing; the top bar is two lines, the shrines' boons and Weakened on a third while lit. v1.34 (§17): the Mere Tower's wardens leave their heirlooms, once a bracket, for a class in the party. v1.33 (§6.3): expeditions: send a benched companion on the Guild's road work for 15 min, an hour or four; back with XP, gold and maybe a find. v1.32 (§12): offline progress is in: the time away (up to 4 h) is played through on the same sim behind a progress screen, then summed up. v1.31 (§17): the Mere Tower is in, ahead of Solmere: Wenna's punt from Saltmere from level 12, waves compounding 6 % from a level-9 room, a warden every tenth, no XP, a satchel banked at each landing. v1.30 (§3.6, §8): shrines of three kinds (green mends, red +25 % ATK and blue +25 % DEF for 2 minutes); every company carries one Homeward Scroll. v1.29 (§3.7): no impassable pools in rooms; one or two pillars, monoliths or gibbets out on the floor instead. v1.28 (§17): lamps, cages and the count are in. v1.27 (§9): each town's board posts its own land's jobs; Saltmere's the Fens'. v1.26 (§10): no stream or bridge before Thornwick's gate, on the Vale or in the town. v1.25 (§3): the Fens' own fill the Fens' sites, each mirroring an Ashbound role. v1.24 (§10): a waystation's bar shows its two services, and the sim refuses the ones it lacks by name. v1.23 (§17) brings in **the Old Provinces**, decided by the owner: six regions to a cap of 75, one town each, numbers that compound before any band past 30, skill tiers and a loadout, lamps and the count, the Bowl, the Mere Tower and the Great Beacon (canon in world doc v1.20). v1.22 (§10.1): the weather's icon beside the sky dial, the icon alone, with the word in the dial's tap; clear spells are sunny or partly sunny. v1.21 (§10.1): the wind shows as long, thin gust lines that come and go; the birds, the owl and the dungeon drips are single calls at least 10 s apart; and every kind of sound, the music too, has its own volume slider. v1.20 adds **weather** (§10.1): rain, fog, snow and wind in spells of 20 minutes or more, on the Vale and in the towns, set by the seed and the clock. It's quiet on the screen (mostly the light) and has its own sound. v1.19 opens the **Scrag Warren** (§3, levels 2–5, two floors) under the north range: the hill goblins (skirmisher, bruiser, archer, hexer), and Old Skarn, whose drum brings two more goblins out of the tunnels every 10 s while he stands. Hedda's side quest *Hens Under the Hill* sends you to him. v1.19 also adds a fifth class, the **Shaman** (§5; the hedge-callers, world doc §4): a ranged support with a stacking Spirit Drain that mends the party as it ticks, a party heal over time with an ATK lift (Ancestors' Breath, Col's trial *Old Roads*), and Hex on a knot of foes. It's playable at creation and sits last at every tavern's table. v1.18 sets down the owner's **key pillars** (§1): level-gated skills learned from quests, optional companions worth 5–25 % each, waves that pay for their danger, online and offline grinding on the same rules (with premium windows), the main story apart from side quests, play styles from party make-up, and single-player now with shared spaces later. §12's offline rules follow them. v1.17 adds the one thing the shop sells besides gear: the **Homeward Scroll** (§8), 300 gold or rare loot, read once to stand on the nearest town's square; still no draughts. v1.16 cuts dropped gold (a kill's, a chest's) to 70 % (§8), quest and board rewards unchanged; and those who shoot hold a stand-off (§5, *Bows and crossbows*). v1.15 lays out the towns (§10;
 docs/town-layout-proposal.md). Each town is walled: a timber palisade in Thornwick, stone in the later
 regions. Its one gate stands on the road where it crosses a stream, and a high street leads up to the
 square. Every service's entrance faces the well, so their places in the square change once. On the
@@ -604,6 +604,11 @@ Both slot in with the same stat block and ability format. No system changes are 
 
 Companions are never required: the solo contract (§7.1) holds without them.
 
+**Names (v1.37).** No two in a company share a name (the owner, 2026-10-05: "I have 2 Tobins"). A tavern's sellsword
+whose drawn name someone in the company (or earlier on the day's list) already has is offered under the next free
+name in their class's list, then any class's (`party.js` `distinctNames`); save v24 renames a later duplicate in an
+older company the same way. The hero keeps theirs.
+
 
 Companions are a choice and a gold sink. What you pay for is a way to play: perks to build a
 company around. Canon: world doc §4, *Sellswords and the Guild's ranks*. Code: `sim/companions.js`
@@ -1031,7 +1036,8 @@ progress):
 - **Towns are hubs, one per region** (v1.23: Thornwick, Ashgate, Tollhaven, Rookstead, Frosthold, and the
   Lamphall in Solmere; §17). Each is the same square in a different region; the size, the edge, the ground and the
   set pieces change ([region-towns-proposal.md](./region-towns-proposal.md)). A region's other stops are
-  **waystations**: a tavern with the board and a shrine (Saltmere in the Fens).
+  **waystations**: a tavern with the board and a shrine (Saltmere in the Fens), and (v1.37, the owner: "Saltmere
+  needs an inn for party mgt") an inn where the company's bench waits: Saltmere's is the Stilt House.
   - **A walled town** (v1.15). The circuit is a box of curtain and towers.
     - **Material:** Thornwick, a beginning town, has a timber palisade with watchtowers; the later
       regions' towns have stone.
@@ -1057,9 +1063,9 @@ progress):
 
   - **Using services:**
     - When the hero nears the square, the camera settles on that fixed framing and a bar of the
-      town's services slides up: five in a town, two at a waystation (v1.24). Tapping a building or its
-      button opens that service's menu. What a place has no house for (Saltmere's inn, forge, shop) is
-      refused by name.
+      town's services slides up: five in a town, three at a waystation (v1.37: tavern, inn, temple; two before).
+      Tapping a building or its button opens that service's menu. What a place has no house for (Saltmere's
+      forge and shop) is refused by name.
     - Every service's name plaque stays on screen there, clear of the HUD's buttons.
     - Away from the square, tapping a service building walks you to the square instead.
     - Buildings aren't enterable.

diff --git a/docs/emberfall-world.md b/docs/emberfall-world.md
@@ -1,6 +1,6 @@
 # Emberfall — World Summary
 
-**v1.27 · 2026-10-05 · Companion to [emberfall-gdd.md](./emberfall-gdd.md).** v1.27 (§3.2, §8): the Fens' bosses in their halls, what each does and what each leaves; the Abbey's choir-lamp and its roll. v1.26 (§8): most harvesters go out with an empty cage; only the one leading them carries a caught soul. v1.25 (§12): what the Mere Tower's wardens leave behind. v1.24 (§4): the Guild's road work, which a company's benched sellswords can be sent on. v1.23 (§3.9, §12): the Mere Tower opens before Solmere does. Wenna Pike keeps a second punt at Saltmere's landing and rows companies up the old canal and across the Mere to the Tower; the Sisters' register takes a company from level 12. v1.22 (§3.1): Thornwick's road comes straight to its gate over open meadow; the brook and its bridge are gone. (§3.2) Saltmere's eel-men and ferryman, who post on its board. v1.21 (§8): the Fens' own as they are drawn: the ghoul's hunch and reach, the bog-witch's hat and marsh-light, the reed-cutters' reed hats and fowlers, the drowned clergy's brothers and cantors.
+**v1.28 · 2026-10-05 · Companion to [emberfall-gdd.md](./emberfall-gdd.md).** v1.28 (§3.2): Saltmere's inn, the Stilt House. v1.27 (§3.2, §8): the Fens' bosses in their halls, what each does and what each leaves; the Abbey's choir-lamp and its roll. v1.26 (§8): most harvesters go out with an empty cage; only the one leading them carries a caught soul. v1.25 (§12): what the Mere Tower's wardens leave behind. v1.24 (§4): the Guild's road work, which a company's benched sellswords can be sent on. v1.23 (§3.9, §12): the Mere Tower opens before Solmere does. Wenna Pike keeps a second punt at Saltmere's landing and rows companies up the old canal and across the Mere to the Tower; the Sisters' register takes a company from level 12. v1.22 (§3.1): Thornwick's road comes straight to its gate over open meadow; the brook and its bridge are gone. (§3.2) Saltmere's eel-men and ferryman, who post on its board. v1.21 (§8): the Fens' own as they are drawn: the ghoul's hunch and reach, the bog-witch's hat and marsh-light, the reed-cutters' reed hats and fowlers, the drowned clergy's brothers and cantors.
 
 v1.20 is **the Old Provinces** (the owner's decisions, 2026-10-04; worked out in
 [world-map-proposal.md](./world-map-proposal.md) and [region-towns-proposal.md](./region-towns-proposal.md)).
@@ -325,7 +325,9 @@ on the stilt-houses never go out.
 - **Town:** Thornwick stays the base to level 15. **Saltmere** (v1.20) is the Fens' **waystation**, a day from
   Thornwick by the canal road: stilt houses over the bog, boardwalks for streets, a square that's a deck on piles,
   *The Drowned Eel* with the Guild's board, the Grey Sisters' chapel, and Pim Rushlight's chandlery. **Reedholm**
-  (the Sisters' prioress house) is an overland landmark.
+  (the Sisters' prioress house) is an overland landmark. (v1.28) **The Stilt House**, at the head of the square, is
+  Saltmere's lodging: long and narrow on its piles, its sleeping-rooms let by the week to the eel-men in the season
+  and to whoever the Guild sends the rest of the year. Companies leave the sellswords they're not taking there.
 - **The Grey Sisters, explained (v1.20).** The Drowned Abbey belonged to the order the Sisters came out of: the
   imperial **binding clergy**, who bound the tithe for the Throne and kept the **binding rolls** of everyone they
   bound. *"Bind them gently. Most of them volunteered."* was their prayer. Nobody in Reedholm likes to say so.

diff --git a/docs/fens-critic-pass.md b/docs/fens-critic-pass.md
@@ -289,3 +289,15 @@ fight (47–58 %). Now everyone steps out of a patch: 6–17 % for the fighter, 
 
 Still open: the Choir and the Abbess share the cantors' frame (a skeleton mage in a habit), told apart by colour and
 what they hold; a hood or veil would help. The Toadking's white trim is still the barbarian's fur.
+
+## Saltmere's inn (2026-10-05)
+
+The owner: *"Saltmere needs an inn for party mgt."* Saltmere had only its tavern and chapel, so the bench, swaps,
+rest and expeditions were refused there. **The Stilt House** is a new building (`tools/actor-lab/buildkit.js`
+`stiltinn`, `town.json` `fens_stiltinn_1`). It's long and narrow on its piles, two storeys under one steep roof,
+with a gallery and a bench along its front, two lanterns, a sign with a candle on it, a ladder to the water, and
+bedding aired over the rail. It stands at the head of the square. The chapel moves 6 tiles west on its island to make
+room, so the three stand 8+ tiles apart with every door in the square's frame (`test/town.test.mjs`). At first the
+inn stood behind the chapel and under the compass buttons, and the move brought it out from behind both. The bar shows
+Tavern, Inn and Temple; the inn's menu is any town's (rest, party and bench, expeditions). No other footprint changed
+(the env bake compared before and after: 0). The square with the inn, and its menu: `docs/img/saltmere-inn.jpg`.

diff --git a/docs/region-towns-proposal.md b/docs/region-towns-proposal.md
@@ -74,7 +74,8 @@ waystation, shows it. It's a stilt town in the bog a day from Thornwick.
 - **Buildings.**
   - **Houses on stilts**: the Fens' rubble-and-plaster in its grey-green tones, slate roofs, raised a man's height.
   - As a waystation it has two services, standing where a town's tavern and temple stand: the *Drowned Eel*, with
-    the Guild's board, and the Grey Sisters' chapel.
+    the Guild's board, and the Grey Sisters' chapel. (2026-10-05, the owner: "Saltmere needs an inn for party mgt")
+    And a third, the inn: **the Stilt House**, at the head of the square (GDD v1.37).
   - The well is a rainwater cistern: nobody drinks the fen.
 - **Set pieces.** Punts tied at the boardwalks, eel traps on stakes, stunted alders and dead trees, and
   **marsh-lights**, the pale wisps over the water at night. They are presentation only, and they never lead
